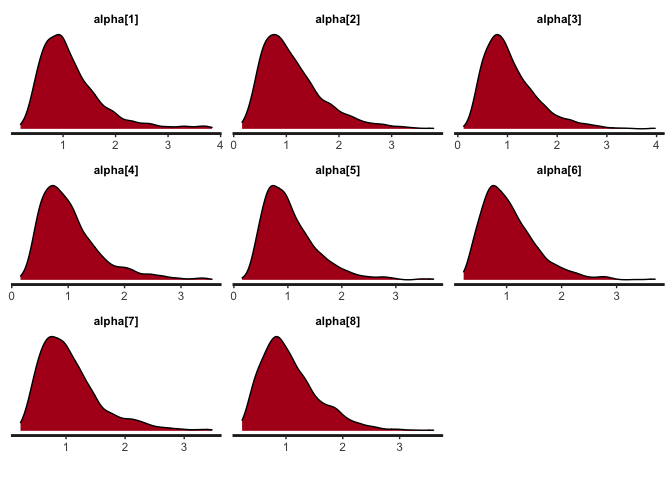
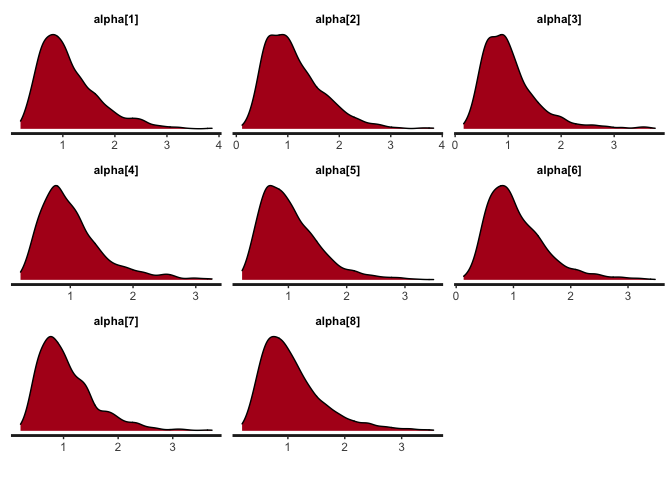
Modify README and vignette

diff --git a/README.md b/README.md
@@ -13,10 +13,20 @@ Downloads](https://cranlogs.r-pkg.org/badges/grand-total/fcirt)](https://cranlog
 The goal of fcirt is to estimate forced choice models using Bayesian
 method. Specifically, the Multi-Unidimensional Pairwise Preference
 (MUPP) model is estimated using the R package **rstan** that utilizes
-the Hamiltonian Monte Carlo sampling algorithm. Four functions (i.e.,
-fcirt( ), extract( ), information( ), and bayesplot( )) are provided for
-model estimation, results extraction, item and test information
-computation, and Bayesian diagnostic plottings, respectively.
+the Hamiltonian Monte Carlo sampling algorithm. Below are some important
+features of the bmggum package:
+
+1.  Item and test information calculated using either quadrature points
+    or estimated person parameters can be obtained using the function
+    information( ).
+2.  Missing data are automatically dealt with in a way similar to how
+    full information maximum likelihood handles missing data.
+3.  Dimensions are allowed to correlate and the correlations are
+    estimated.
+4.  Four functions (i.e., fcirt( ), extract( ), information( ), and
+    bayesplot( )) are provided for model estimation, results extraction,
+    item and test information computation, and Bayesian diagnostic
+    plottings, respectively.
 
 ## Installation
 
@@ -42,36 +52,26 @@ library(fcirt)
 
 ## basic example code
 ## Step 1: Input data
-# 1.1 Response data in wide format
-fcirt.Data <- c(1,0,0,1,1,1,1,1,1,1,0,1,1,0,1,1,0,0,0,0,0,0,1,1,1,0,1,1,1,1,0,1,1,1,0,1,1,0,1,1)
+# 1.1 Response data in wide format. If the first statement is preferred, the data should be coded as 1, otherwise it should be coded as 2. 
+fcirt.Data <- c(1,2,2,1,1,1,1,1,NA,1,2,1,1,2,1,1,2,2,NA,2,2,2,1,1,1,2,1,1,1,1,2,1,1,1,2,1,1,2,1,1)
 fcirt.Data <- matrix(fcirt.Data,nrow = 10)
 fcirt.Data
 #>       [,1] [,2] [,3] [,4]
-#>  [1,]    1    0    0    0
-#>  [2,]    0    1    0    1
-#>  [3,]    0    1    1    1
-#>  [4,]    1    0    1    1
-#>  [5,]    1    1    1    0
-#>  [6,]    1    1    0    1
-#>  [7,]    1    0    1    1
-#>  [8,]    1    0    1    0
-#>  [9,]    1    0    1    1
-#> [10,]    1    0    1    1
+#>  [1,]    1    2    2    2
+#>  [2,]    2    1    2    1
+#>  [3,]    2    1    1    1
+#>  [4,]    1    2    1    1
+#>  [5,]    1    1    1    2
+#>  [6,]    1    1    2    1
+#>  [7,]    1    2    1    1
+#>  [8,]    1    2    1    2
+#>  [9,]   NA   NA    1    1
+#> [10,]    1    2    1    1
 
-# 1.2 A two-column data matrix: the first column is the statement number for statement s; the second column is the statement number for statement t.
-pairmap <- c(1,3,5,7,2,4,6,8)
-pairmap <- matrix(pairmap,ncol = 2)
-pairmap
-#>      [,1] [,2]
-#> [1,]    1    2
-#> [2,]    3    4
-#> [3,]    5    6
-#> [4,]    7    8
-
-# 1.3 A column vector mapping each statement to each trait.
+# 1.2 A column vector mapping each statement to each trait.
 ind <- c(1,2,1,2,1,2,2,1)
 
-# 1.4 A three-column matrix containing initial values for the three statement parameters (alpha, delta, tau) respectively. If using the direct MUPP estimation approach, 1 and -1 for alphas and taus are recommended and -1 or 1 for deltas are recommended depending on the signs of the statements. If using the two-step estimation approach, pre-estimated statement parameters are used as the initial values. The R package **bmggum** (Tu et al., 2021) can be used to estimate statement parameters for the two-step approach. 
+# 1.3 A three-column matrix containing initial values for the three statement parameters (alpha, delta, tau) respectively. If using the direct MUPP estimation approach, 1 and -1 for alphas and taus are recommended and -1 or 1 for deltas are recommended depending on the signs of the statements. If using the two-step estimation approach, pre-estimated statement parameters are used as the initial values. The R package **bmggum** (Tu et al., 2021) can be used to estimate statement parameters for the two-step approach. 
 ParInits <- c(1, 1, 1, 1, 1, 1, 1, 1, 1, -1, 1, 1, 1, -1, 1, 1, -1, -1, -1, -1, -1, -1, -1, -1)
 ParInits <- matrix(ParInits, ncol = 3)
 ParInits
@@ -86,7 +86,7 @@ ParInits
 #> [8,]    1    1   -1
 
 ## Step 2: Fit the MUPP model
-mod <- fcirt(fcirt.Data=fcirt.Data, pairmap=pairmap, ind=ind, ParInits=ParInits, iter=1000)
+mod <- fcirt(fcirt.Data=fcirt.Data, ind=ind, ParInits=ParInits, iter=1000)
 
 ## Step 3: Extract the estimated results 
 # 3.1 Extract the theta estimates 
@@ -98,25 +98,25 @@ theta <- matrix(theta, nrow=2)
 theta <- t(theta)
 # theta estimates in p*trait matrix format
 theta
-#>               [,1]        [,2]
-#>  [1,] -0.056510065  0.05821038
-#>  [2,]  0.051024528  0.03141075
-#>  [3,]  0.003037158 -0.06501504
-#>  [4,] -0.001558201 -0.01900754
-#>  [5,]  0.017972534  0.02165795
-#>  [6,]  0.053098798  0.01949025
-#>  [7,] -0.021488190 -0.01523946
-#>  [8,] -0.019211486 -0.03143620
-#>  [9,]  0.026494056 -0.06910731
-#> [10,] -0.051871191 -0.03644644
+#>               [,1]         [,2]
+#>  [1,]  0.031983911 -0.040507535
+#>  [2,]  0.031117462  0.007010284
+#>  [3,] -0.059953205  0.030518524
+#>  [4,] -0.051325147  0.040002677
+#>  [5,]  0.015184621  0.026122820
+#>  [6,]  0.023052726 -0.021688658
+#>  [7,] -0.051152959 -0.001259698
+#>  [8,] -0.004859978  0.057635574
+#>  [9,]  0.009258872  0.033419928
+#> [10,] -0.035629044  0.034475004
 # 3.2 Extract the tau estimates
 tau <- extract(x=mod, pars='tau')
 tau <- tau[,1]
 tau
-#>     tau[1]     tau[2]     tau[3]     tau[4]     tau[5]     tau[6]     tau[7] 
-#> -2.1211134 -0.9787187 -1.2174130 -1.5107926 -1.7925023 -1.0748551 -1.8382772 
-#>     tau[8] 
-#> -1.0526952
+#>    tau[1]    tau[2]    tau[3]    tau[4]    tau[5]    tau[6]    tau[7]    tau[8] 
+#> -1.987001 -1.003432 -1.241766 -1.399681 -1.778702 -1.036536 -1.804697 -1.077218
+#3.3 Extract the estimates of the correlations among dimensions
+cor <- extract(x=mod, pars='cor')
 
 ## Step 4: Plottings
 # 4.1 Obtain the density plots for alpha
@@ -137,9 +137,9 @@ bayesplot(x=mod, pars='alpha', plot='trace', inc_warmup=FALSE)
 # 5.1 Obtain item information for item 1-3
 OII <- information(x=mod, approach="direct", information="item", items=1:3)
 OII
-#> [1] 0.3990541 0.4145044 0.3924897
+#> [1] 0.4092903 0.4042939 0.3877951
 # 5.2 Obtain test information 
 OTI <- information(x=mod, approach="direct", information="test")
 OTI
-#> [1] 1.608099
+#> [1] 1.608404
 ```
